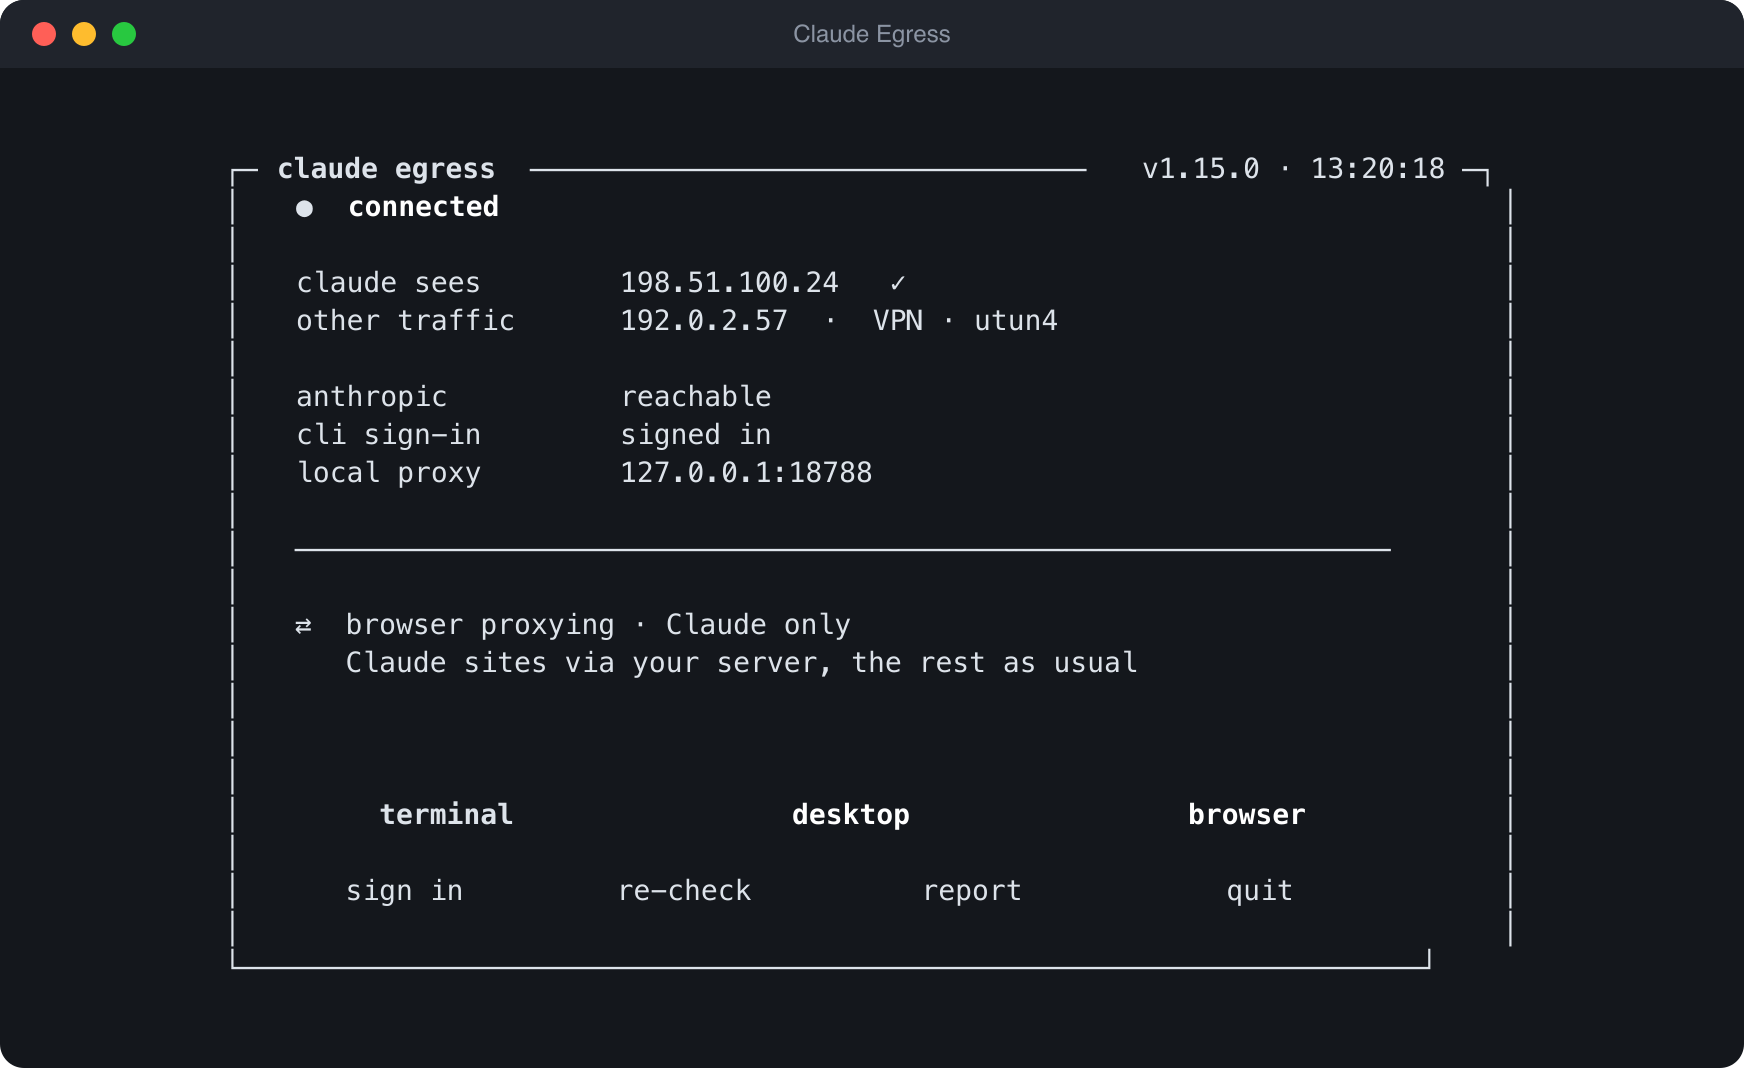
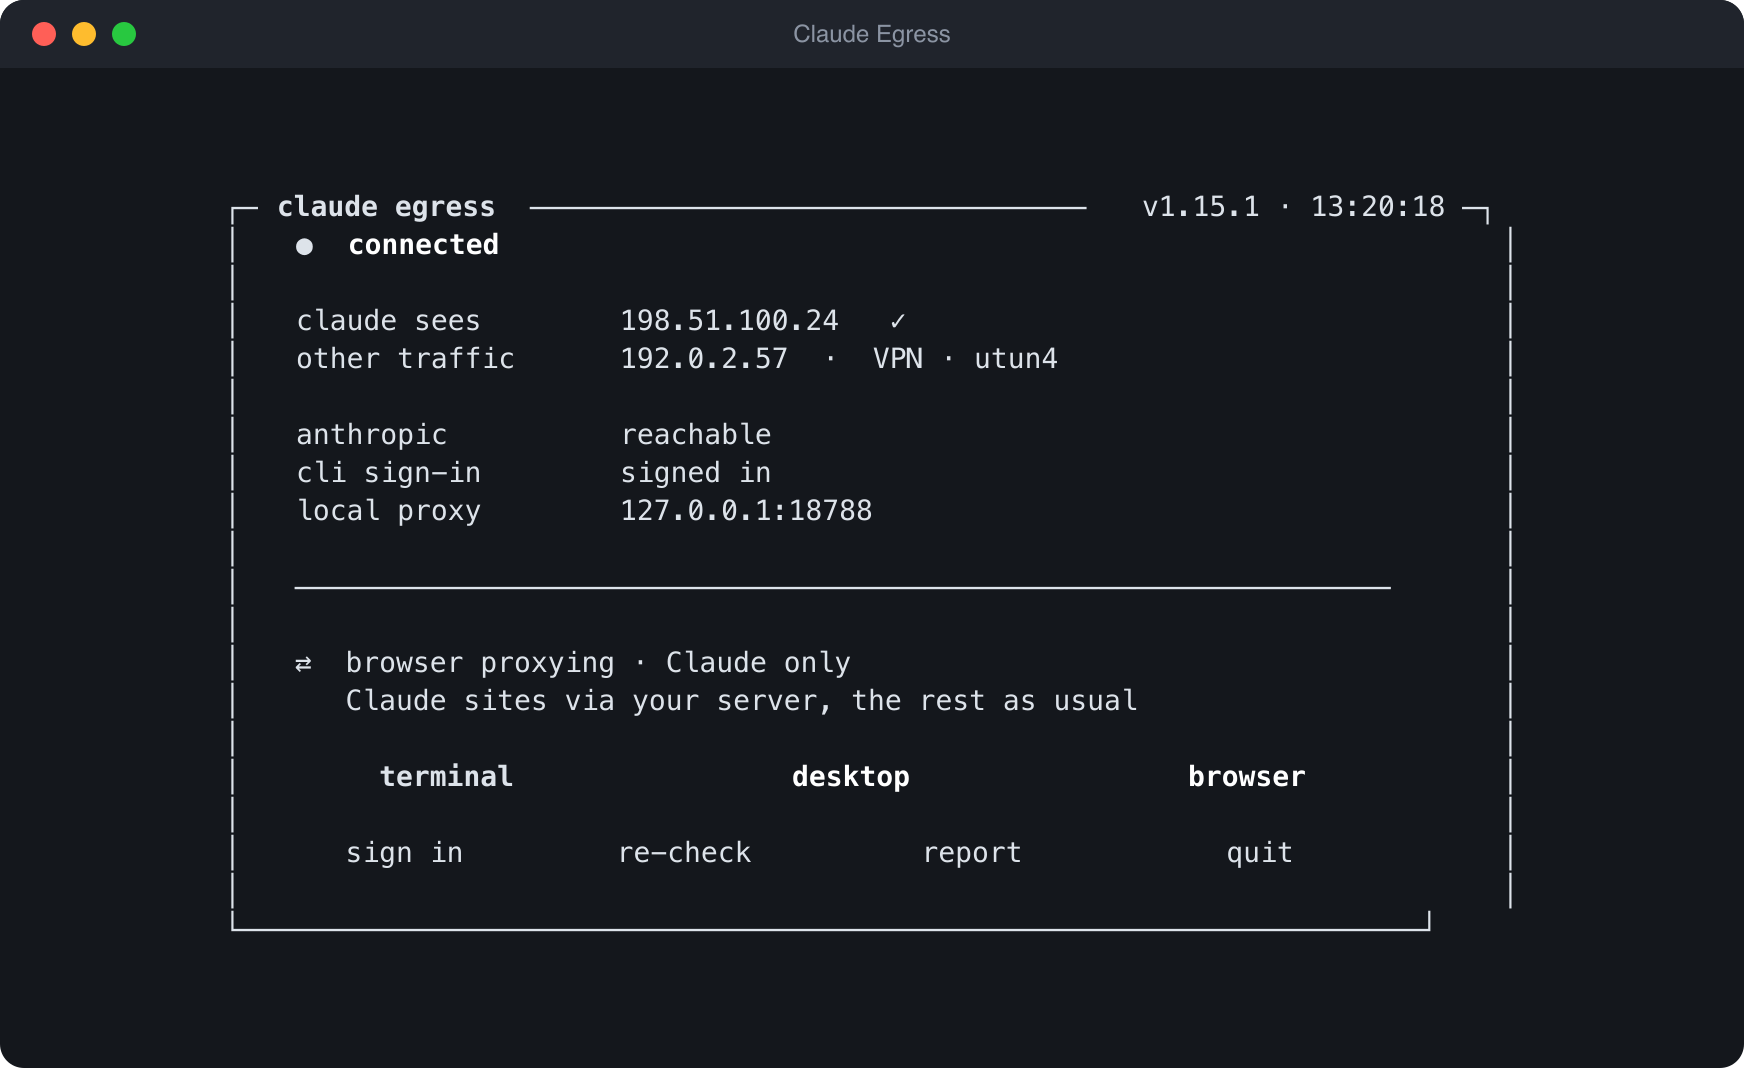
Claude Egress 1.15.1

diff --git a/CHANGELOG.md b/CHANGELOG.md
@@ -2,14 +2,9 @@
 
 Файл проверок — [ACCEPTANCE.md](ACCEPTANCE.md). Здесь только то, что меняется для пользователя.
 
-## 1.15.0
+## 1.15.1
 
-- Kill switch для macOS: переключатель на главном экране. Пока он включён,
-  файрвол macOS не пускает этот Mac к Anthropic напрямую, поэтому Claude,
-  запущенный в обход Egress или через VPN, просто не подключится. Через
-  Egress всё работает. Правило сохраняется после перезагрузки, включение и
-  выключение спрашивают пароль администратора. Окно проверяет, что прямой
-  доступ действительно закрыт.
+- Возврат к 1.14.0: kill switch из 1.15.0 убран вместе с правилом файрвола.
 
 ## 1.14.0
 
